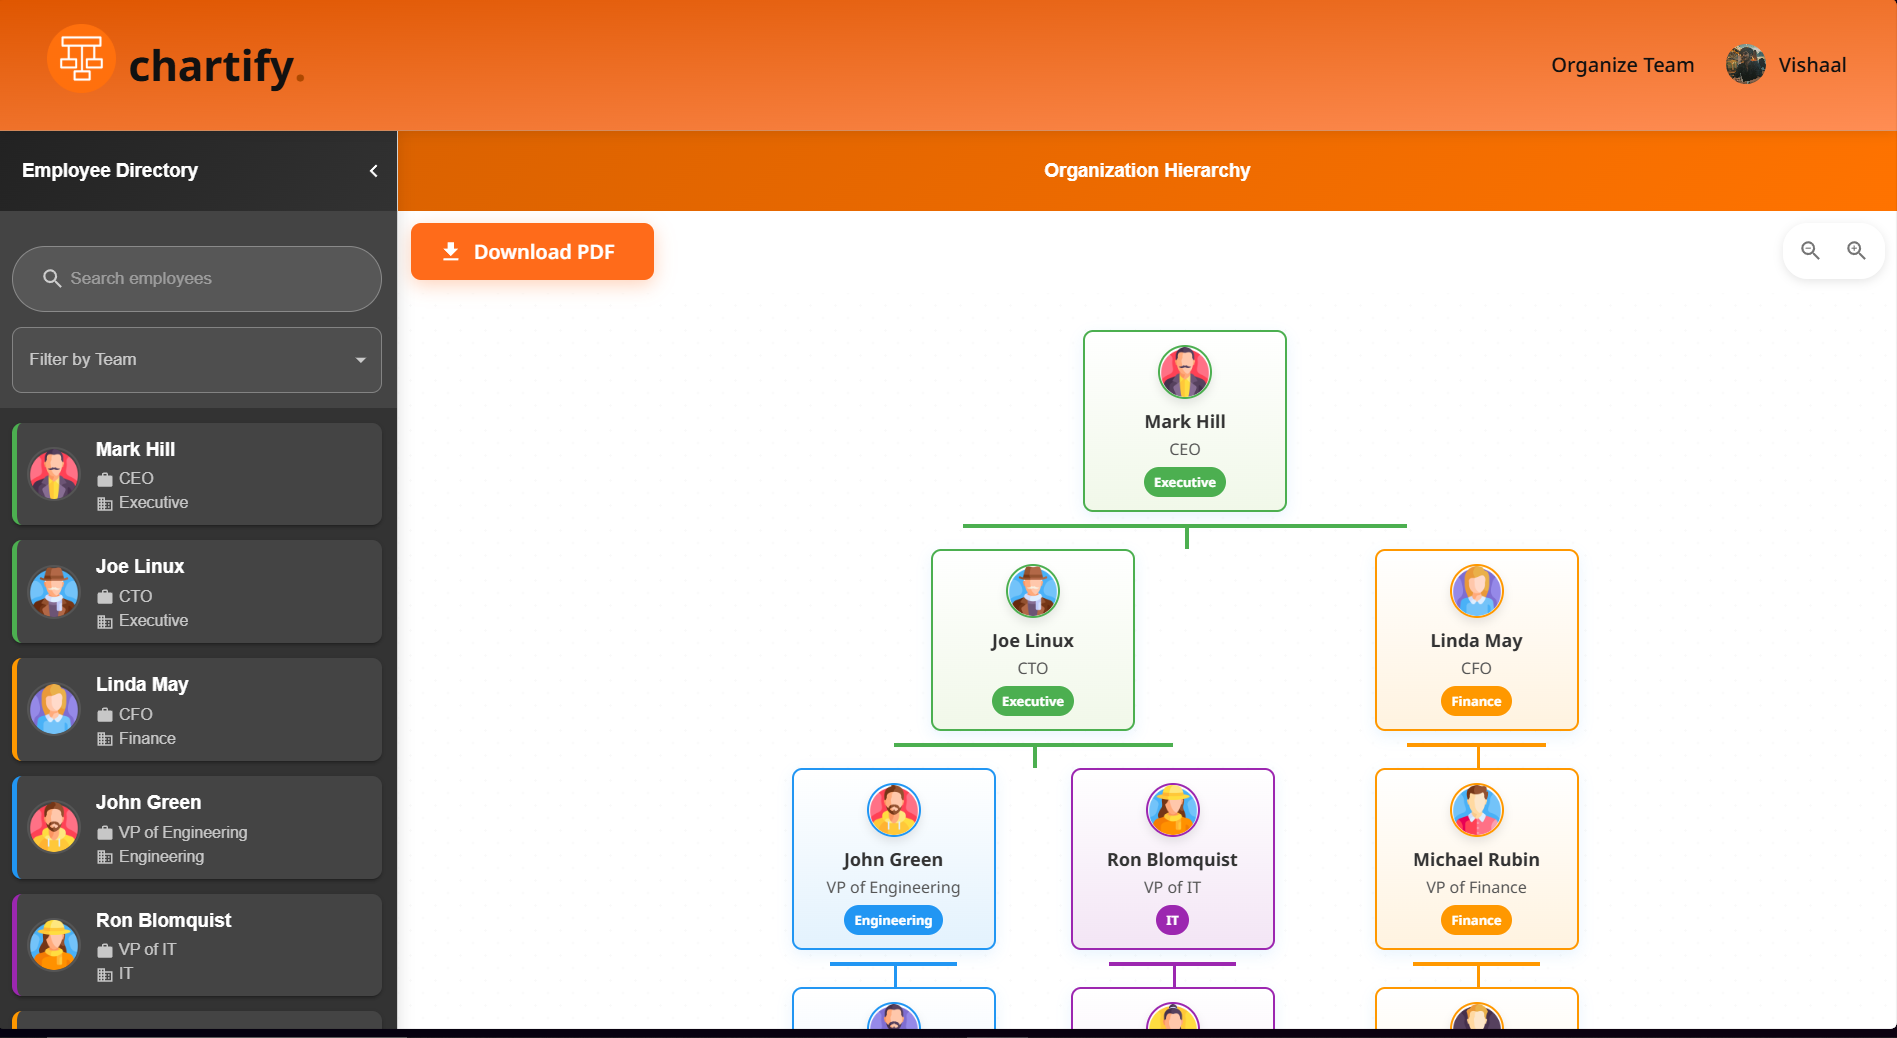
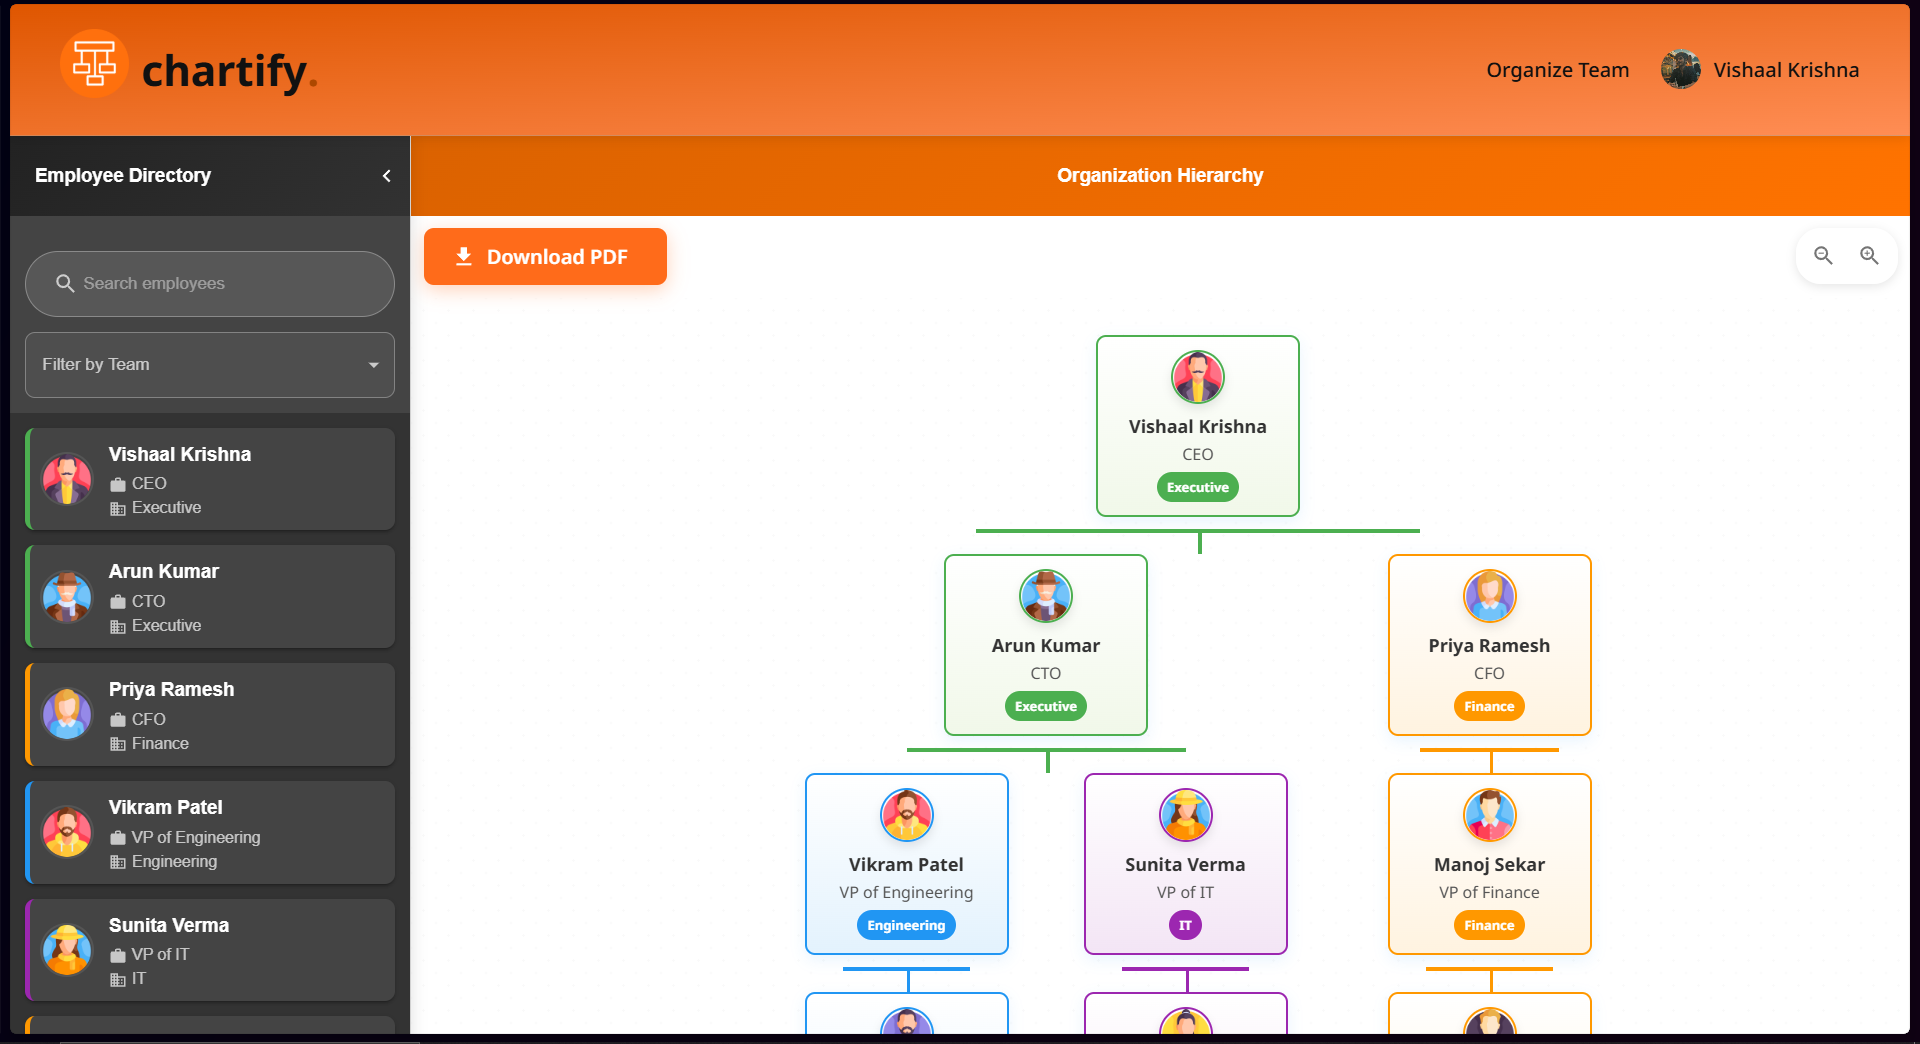
change

diff --git a/client/src/pages/chartPage/ChartPage.jsx b/client/src/pages/chartPage/ChartPage.jsx
@@ -14,19 +14,20 @@ import Pretender from 'pretender';
 const server = new Pretender(function() {
   
   const employeeData = [
-    { id: 1, name: "Mark Hill", designation: "CEO", team: "Executive", managerId: null, image: "/img/m1.png" },
-    { id: 2, name: "Joe Linux", designation: "CTO", team: "Executive", managerId: 1, image: "/img/m2.png" },
-    { id: 3, name: "Linda May", designation: "CFO", team: "Finance", managerId: 1, image: "/img/w1.png" },
-    { id: 4, name: "John Green", designation: "VP of Engineering", team: "Engineering", managerId: 2, image: "/img/m3.png" },
-    { id: 5, name: "Ron Blomquist", designation: "VP of IT", team: "IT", managerId: 2, image: "/img/w2.png" },
-    { id: 6, name: "Michael Rubin", designation: "VP of Finance", team: "Finance", managerId: 3, image: "/img/m4.png" },
-    { id: 7, name: "Alice Johnson", designation: "Engineering Manager", team: "Engineering", managerId: 4, image: "/img/m5.png" },
-    { id: 8, name: "Bob Williams", designation: "IT Manager", team: "IT", managerId: 5, image: "/img/w3.png" },
-    { id: 9, name: "Carol Smith", designation: "Financial Analyst", team: "Finance", managerId: 6, image: "/img/m6.png" },
-    { id: 10, name: "Dave Brown", designation: "Software Engineer", team: "Engineering", managerId: 7, image: "/img/w4.png" },
-    { id: 11, name: "Eve Davis", designation: "System Administrator", team: "IT", managerId: 8, image: "/img/m7.png" },
-    { id: 12, name: "Frank Wilson", designation: "Accountant", team: "Finance", managerId: 9, image: "/img/w5.png" },
-  ];
+    { id: 1, name: "Vishaal Krishna", designation: "CEO", team: "Executive", managerId: null, image: "/img/m1.png" },
+    { id: 2, name: "Arun Kumar", designation: "CTO", team: "Executive", managerId: 1, image: "/img/m2.png" },
+    { id: 3, name: "Priya Ramesh", designation: "CFO", team: "Finance", managerId: 1, image: "/img/w1.png" },
+    { id: 4, name: "Vikram Patel", designation: "VP of Engineering", team: "Engineering", managerId: 2, image: "/img/m3.png" },
+    { id: 5, name: "Sunita Verma", designation: "VP of IT", team: "IT", managerId: 2, image: "/img/w2.png" },
+    { id: 6, name: "Manoj Sekar", designation: "VP of Finance", team: "Finance", managerId: 3, image: "/img/m4.png" },
+    { id: 7, name: "Anjali", designation: "Engineering Manager", team: "Engineering", managerId: 4, image: "/img/m5.png" },
+    { id: 8, name: "Ramesh Yadav", designation: "IT Manager", team: "IT", managerId: 5, image: "/img/w3.png" },
+    { id: 9, name: "Kavita", designation: "Financial Analyst", team: "Finance", managerId: 6, image: "/img/m6.png" },
+    { id: 10, name: "Suresh Kumar", designation: "Software Engineer", team: "Engineering", managerId: 7, image: "/img/w4.png" },
+    { id: 11, name: "Neha Sri", designation: "System Administrator", team: "IT", managerId: 8, image: "/img/m7.png" },
+    { id: 12, name: "Mohammed Shakithiyan", designation: "Accountant", team: "Finance", managerId: 9, image: "/img/w5.png" },
+];
+
 
   // GET endpoint to fetch all employees
   this.get('/api/employees', () => {
